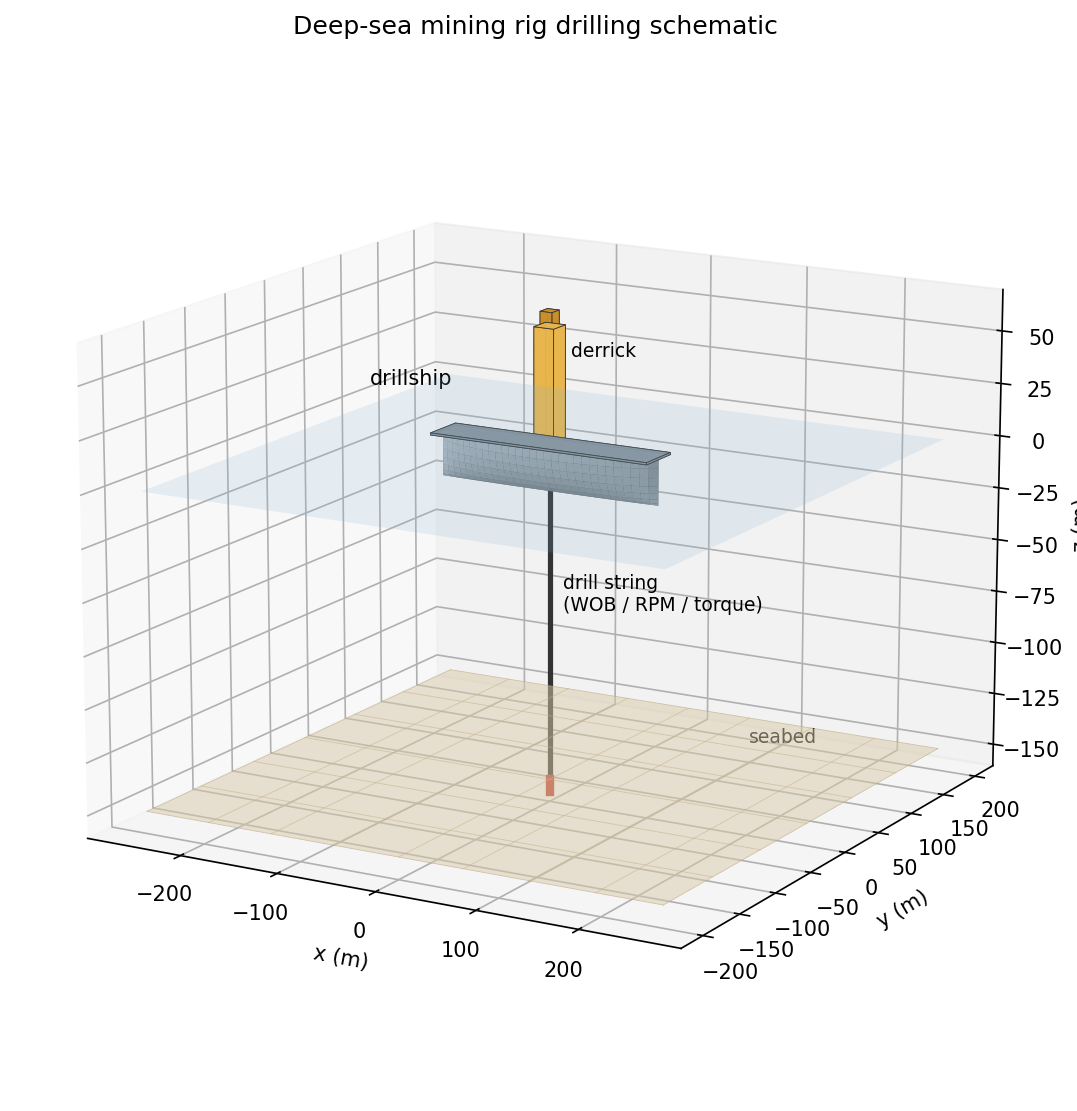
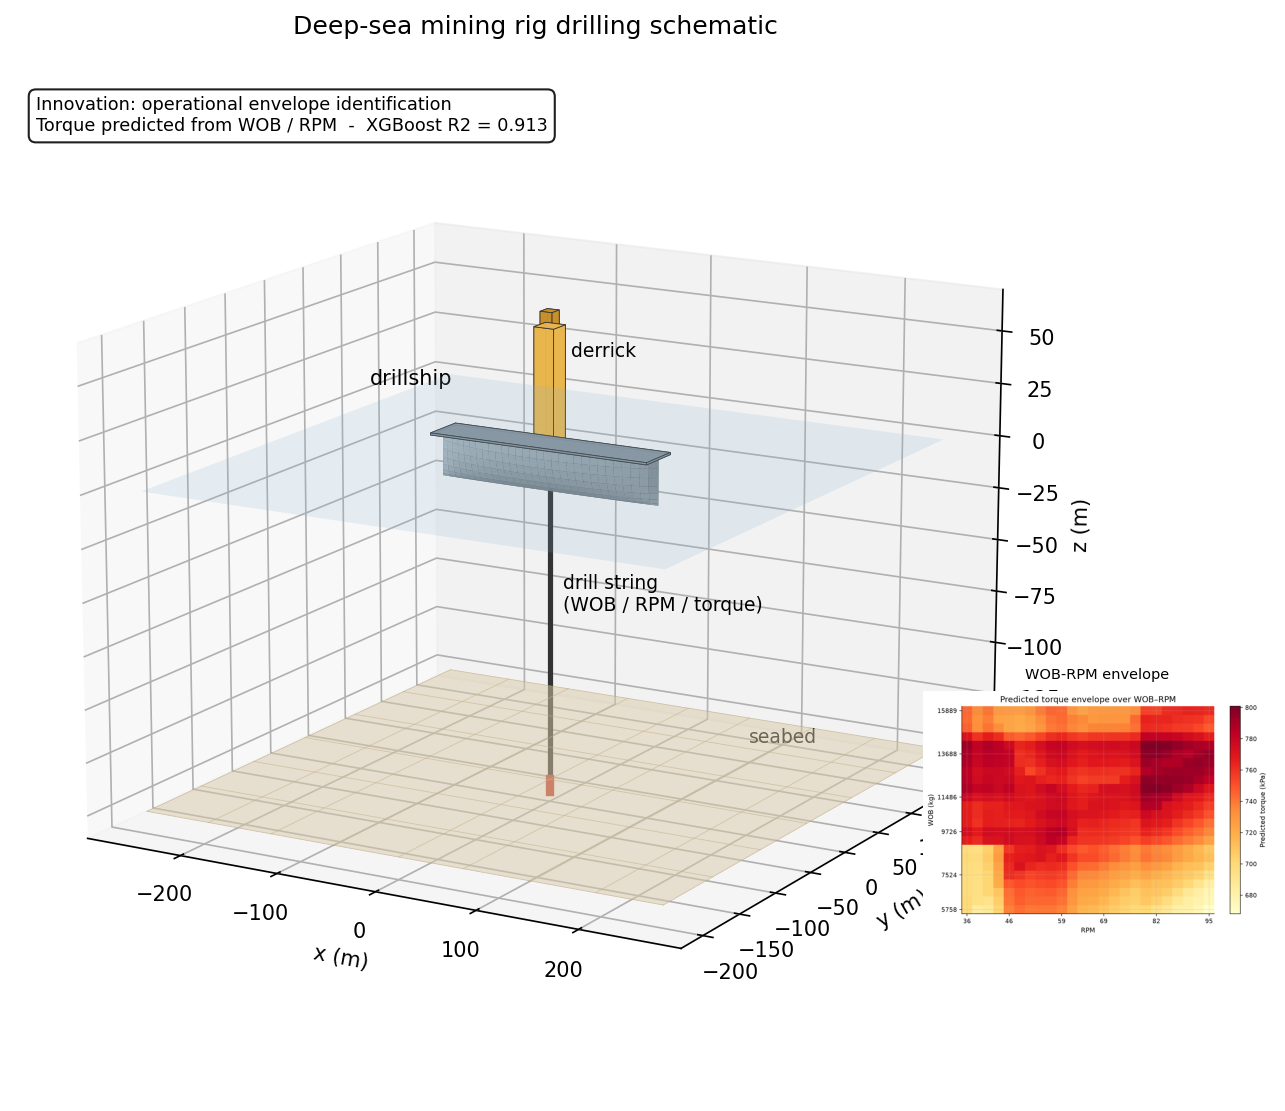
Innovation annotations on 3D figures

diff --git a/figures/make_3d_schematic.py b/figures/make_3d_schematic.py
@@ -87,5 +87,12 @@ ax.text(14, 10, D+40, 'derrick', fontsize=9)
 ax.text(8, 8, -70, 'drill string\n(WOB / RPM / torque)', fontsize=9)
 ax.text(120, 120, -DEPTH+6, 'seabed', fontsize=9)
 ax.text(-95, -60, D+30, 'drillship', fontsize=10, ha='center')
+_inset = fig.add_axes([0.73, 0.16, 0.22, 0.22])
+_inset.imshow(plt.imread(str(Path(__file__).parent / 'fig3_envelope_heatmap.png')))
+_inset.axis('off')
+_inset.set_title('WOB-RPM envelope', fontsize=7)
+ax.text2D(0.02, 0.96, 'Innovation: operational envelope identification\nTorque predicted from WOB / RPM  -  XGBoost R2 = 0.913',
+    transform=ax.transAxes, fontsize=8.5, va='top', ha='left',
+    bbox=dict(boxstyle='round,pad=0.4', facecolor='white', alpha=0.88))
 finish(ax, str(Path(__file__).parent / 'fig5_rig_3d.png'),
        'Deep-sea mining rig drilling schematic', elev=15, azim=-60)
